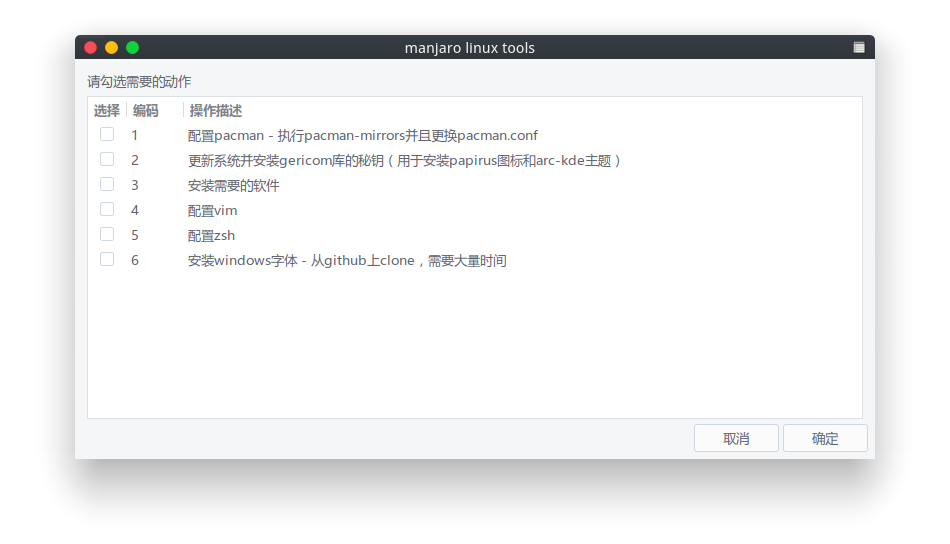
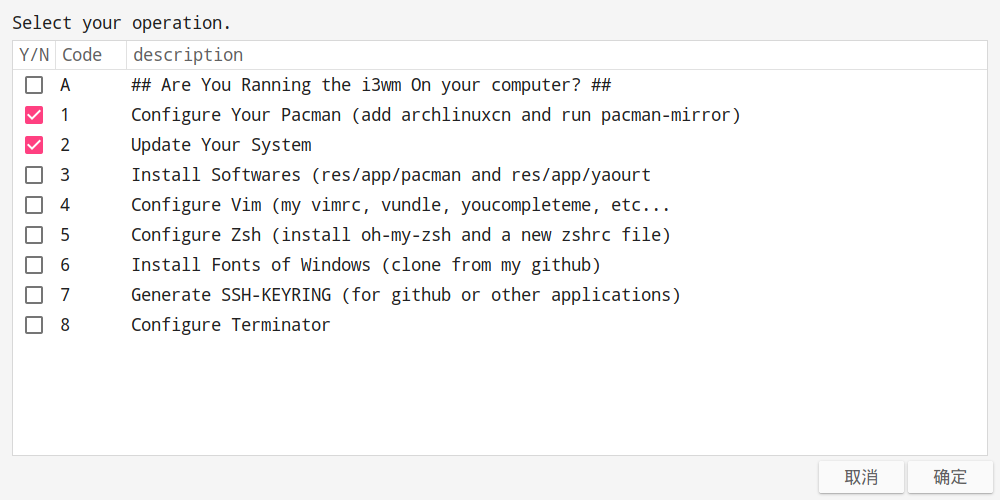
update files

Changed region(s): [[0.0, 0.03, 0.9768, 0.99], [0.1221, 0.63, 0.3358, 0.69]]

diff --git a/README.md b/README.md
@@ -1,16 +1,11 @@
 ## manjaro linux configuration
 
-用于快速配置manjaro linux（常用软件，vim，zsh，pacman）
+用于快速配置manjaro linux（常用软件，vim，zsh，pacman\、terminator、i3wm）
 
-### 怎样使用
+### Install
 
 ```shell
-# 克隆到本地
-git clone git@github.com:dongchangzhang/manjaro-linux-config.git
-cd manjaro-linux-config
-chmod a+x setup.sh
-# 初次运行建议选中更新系统选项
-./setup.sh
+ sh -c "$(curl -fsSL https://raw.github.com/dongchangzhang/manjaro-linux-config/master/setup.sh)"
 ```
 
 ![ui](preview/ui.png)
